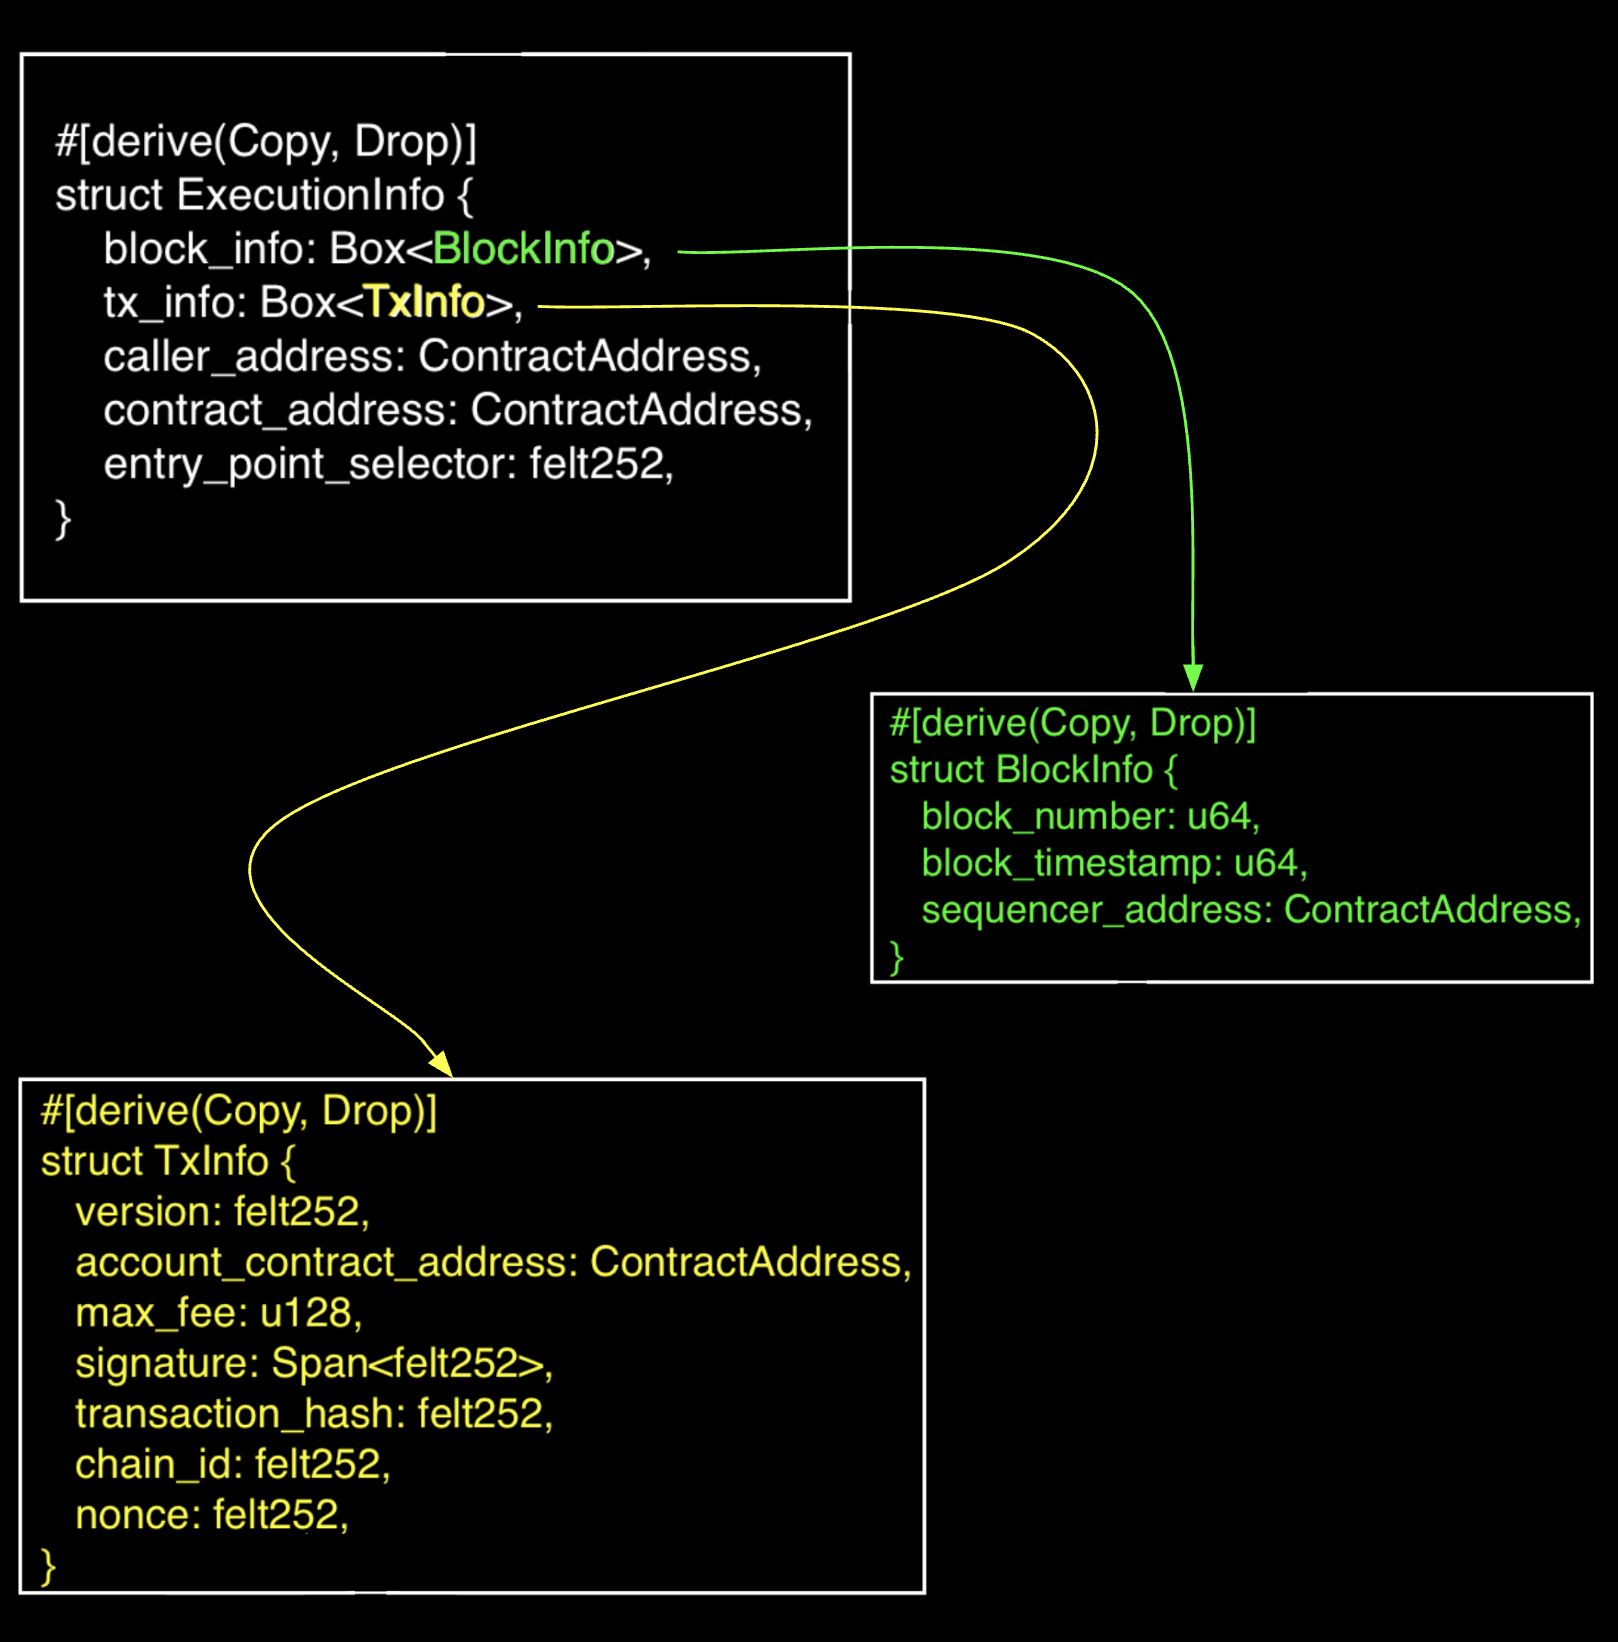
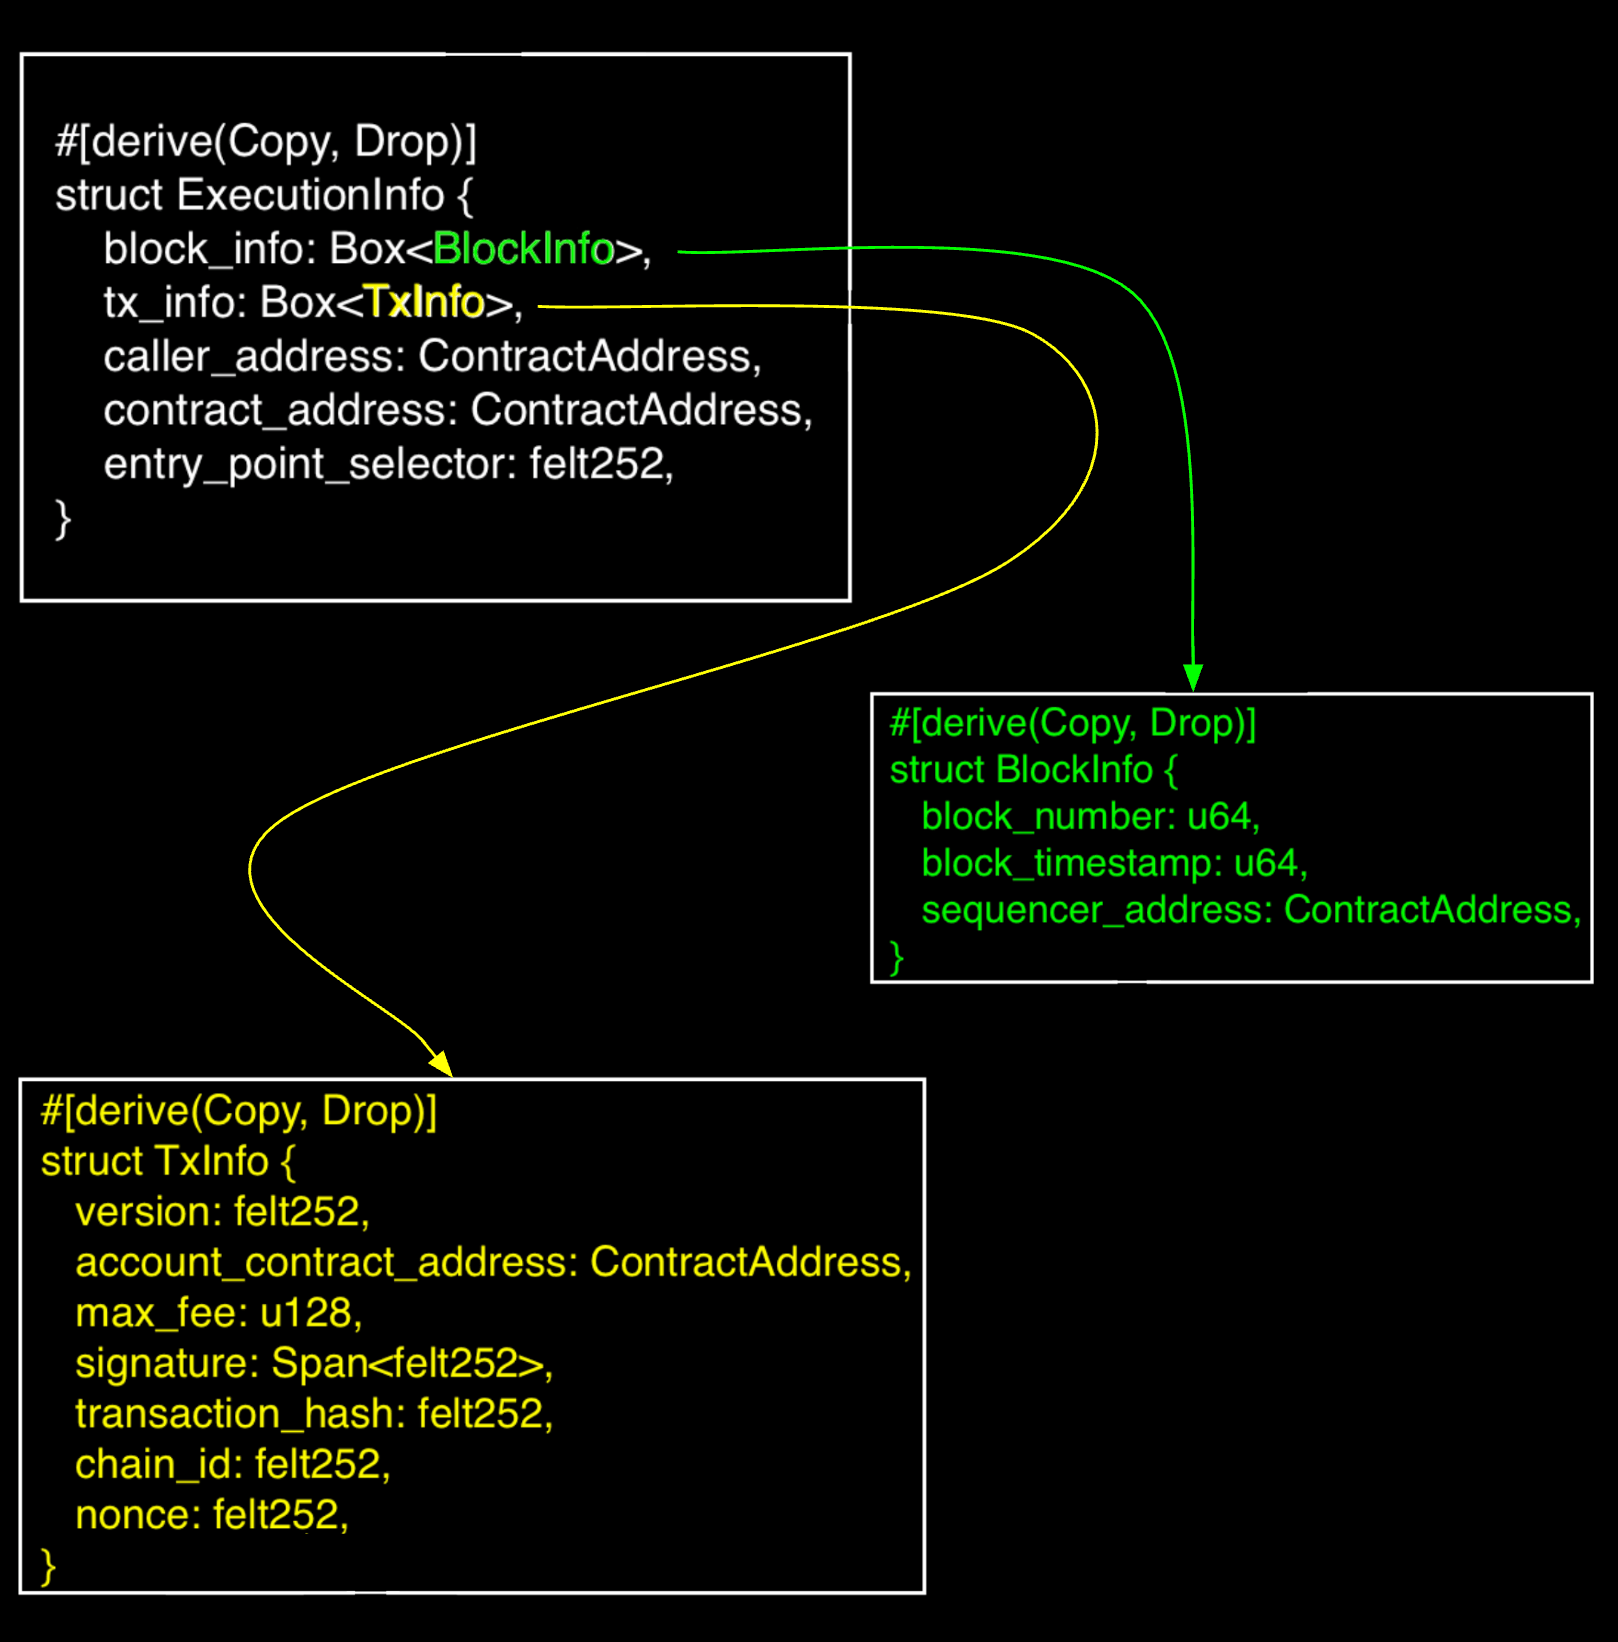
compress images

Changed region(s): [[0.0309, 0.6212, 0.5562, 0.9318], [0.5562, 0.4038, 0.958, 0.5591], [0.2472, 0.1242, 0.3708, 0.1864]]

diff --git a/content/cairo-syscalls/cairo-syscalls.md b/content/cairo-syscalls/cairo-syscalls.md
@@ -706,7 +706,7 @@ This is similar to Getting Execution Context, except that the `TxInfo` field is 
 
 Below is an image of the `ExecutionInfo` struct with the new `v2::TxInfo`
 
-![image of ExecutionInfo v2 struct ](media/img.jpg)
+![image of ExecutionInfo v2 struct ](media/img.png)
 
 The newer fields (highlighted in red) in `v2::TxInfo` were added to support [V3 transactions](https://docs.starknet.io/learn/cheatsheets/transactions-reference#invoke-v3). They describe how much of the network’s resources a transaction is allowed to use, how fees may be paid, where certain transaction data is stored, and whether the transaction includes account-deployment data.
 
